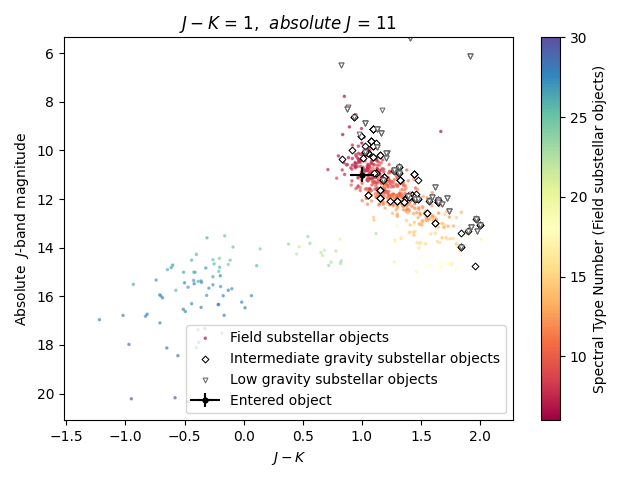
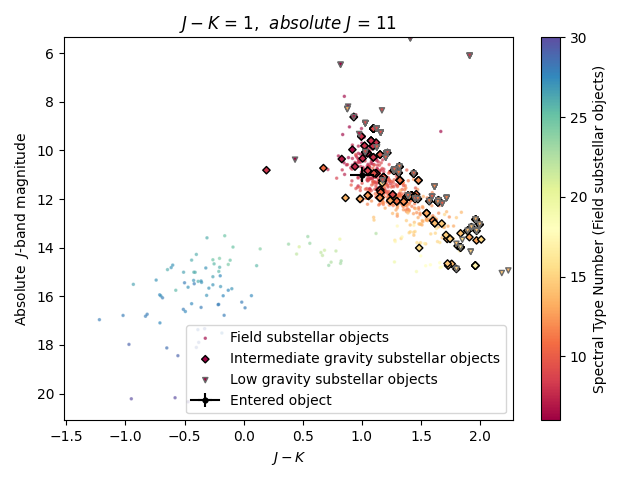
Added the spt of young beta/gamma objects

diff --git a/src/mocapy/moca.py b/src/mocapy/moca.py
@@ -362,9 +362,9 @@ class MocaViz:
 			marker_list = ['D', 'v']
 
 			def plot_young(df_list, df_color) : 
-				for i, dfy in enumerate(df_young_list) :
+				for i, dfy in enumerate(df_list) :
 						ax.errorbar(dfy['b1mag']-dfy['b2mag'], dfy['Bmag_abs'], xerr=dfy['b1b2_unc'], yerr=dfy['Bmag_abs_unc'], 
-								mec=df_color[i], mfc = '#FFFFFF', ecolor=df_color[i], marker=marker_list[i], markersize=3.5, markeredgewidth = 0.75, fmt=' ', label= str(dfy.at[0, 'grav_type'])+' substellar objects')
+								mec=df_color[i], mfc = '#FFFFFF', ecolor=df_color[i], marker=marker_list[i], markersize=3.5, markeredgewidth = 1, fmt=' ', label= str(dfy.at[0, 'grav_type'])+' substellar objects')
 
 		# Create a figure and an axes :
 		fig, ax = plt.subplots()
@@ -381,7 +381,7 @@ class MocaViz:
 				ax.scatter(dfnew['b1mag']-dfnew['b2mag'], dfnew['Bmag_abs'], edgecolors='#808080', marker='.', s=10, alpha=0.3, label='Field substellar objects')
 				if young_seq:
 					for i, dfy in enumerate(df_young_list) :
-						ax.scatter(dfy['b1mag']-dfy['b2mag'], dfy['Bmag_abs'], facecolors = '#FFFFFF', edgecolors=df_young_color2[i], linewidths = 0.75, marker=marker_list[i], s=12, label=str(dfy.at[0, 'grav_type'])+' substellar objects')
+						ax.scatter(dfy['b1mag']-dfy['b2mag'], dfy['Bmag_abs'], facecolors = '#FFFFFF', edgecolors=df_young_color2[i], linewidths = 1, marker=marker_list[i], s=12, label=str(dfy.at[0, 'grav_type'])+' substellar objects')
 		else:
 			# Create a colormap for the spectral types
 			sptn_list = list(pd.unique(dfnew['sptn'])) 
@@ -402,13 +402,21 @@ class MocaViz:
 								color=sptn_color[i], ecolor='#808080', marker='.', markersize=3, alpha=0.5, fmt=' ')
 						
 				if young_seq:
-					plot_young(df_young_list, df_young_color)
-					
+					for y, dfy in enumerate(df_young_list) :
+						sptn_color_young = np.array([(sm.to_rgba(v)) for v in dfy['sptn']])
+						for i, color in enumerate(sptn_color_young) :
+							if i == 0 :
+								ax.errorbar(dfy.at[i,'b1mag']-dfy.at[i, 'b2mag'], dfy.at[i, 'Bmag_abs'], xerr=dfy.at[i, 'b1b2_unc'], yerr=dfy.at[i, 'Bmag_abs_unc'], 
+									mec=df_young_color[y], color = sptn_color_young[i], ecolor=df_young_color[y], marker=marker_list[y], markersize=3.5, markeredgewidth = 1, fmt=' ', label= str(dfy.at[0, 'grav_type'])+' substellar objects')
+							else : 
+								ax.errorbar(dfy.at[i,'b1mag']-dfy.at[i, 'b2mag'], dfy.at[i, 'Bmag_abs'], xerr=dfy.at[i, 'b1b2_unc'], yerr=dfy.at[i, 'Bmag_abs_unc'], 
+										mec=df_young_color[y], color = sptn_color_young[i], ecolor=df_young_color[y], marker=marker_list[y], markersize=3.5, markeredgewidth = 1, fmt=' ')				
 			else:
 				ax.scatter(dfnew['b1mag'] - dfnew['b2mag'], dfnew['Bmag_abs'], c=dfnew['sptn'], cmap=cmap, norm=norm, marker='.', s=10, alpha=0.5, label = 'Field substellar objects')
+				
 				if young_seq:
 					for i, dfy in enumerate(df_young_list) :
-						ax.scatter(dfy['b1mag']-dfy['b2mag'], dfy['Bmag_abs'], facecolors = '#FFFFFF', edgecolors=df_young_color[i], linewidths = 0.75, marker=marker_list[i], s=12, label=str(dfy.at[0, 'grav_type'])+' substellar objects')
+						ax.scatter(dfy['b1mag']-dfy['b2mag'], dfy['Bmag_abs'], facecolors='#FFFFFF', c=dfy['sptn'], edgecolors=df_young_color[i], cmap=cmap, norm=norm, linewidths = 1, marker=marker_list[i], s=14, label=str(dfy.at[0, 'grav_type'])+' substellar objects')
 			
 			# Add a color bar to the plot
 			cbar = plt.colorbar(sm, ax=ax)
